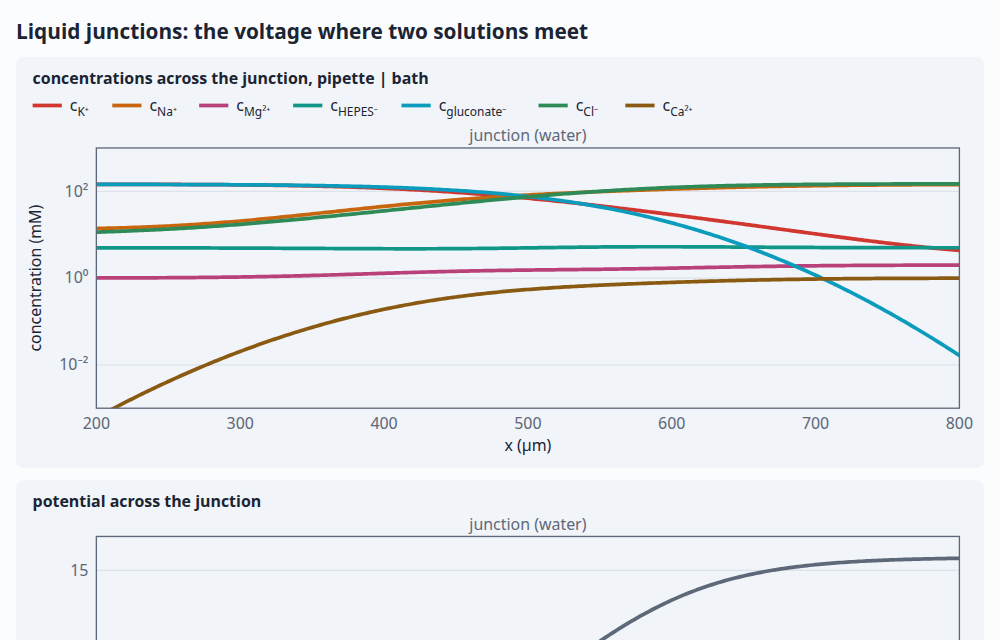
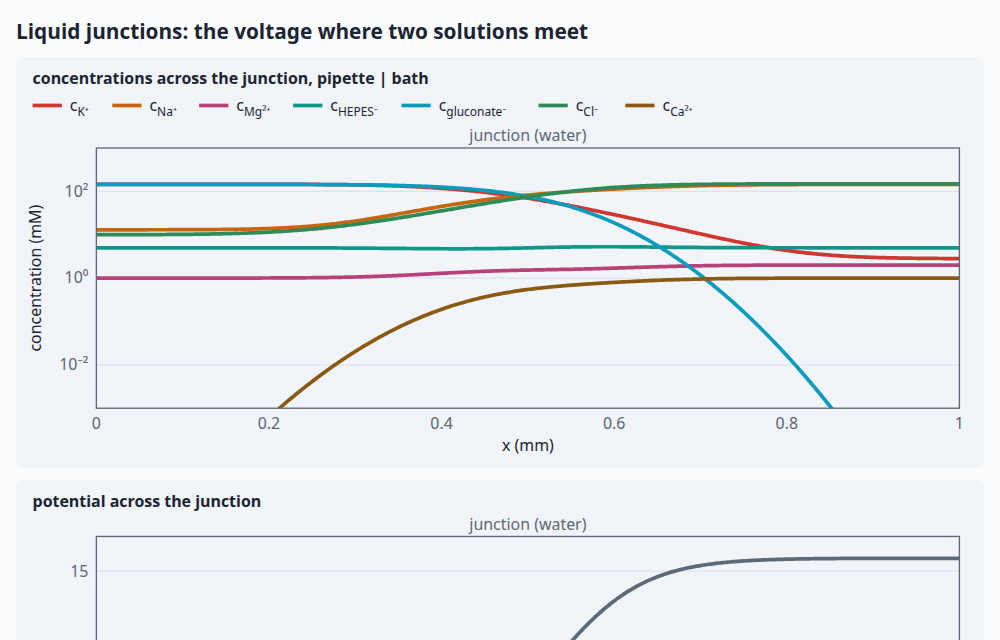
Liquid-junction demo: the whole zone in view, and long enough to become Planck's
The free junction's plots keep the full millimetre between the baths, so the spreading shows
(the owner found the zoom that kept the junction self-similar on screen more confusing than
telling). It now runs to 1000 s: past ~10 s its zone reaches the baths and the potential leaves
the free-diffusion value (15.74 mV), overshoots, and settles on Planck's (16.05). Linked from the
README's "is it for your problem?" table (electrochemistry, biophysics), and cross-linked with
the Daniell cell's salt bridge.

diff --git a/demos/junction.html b/demos/junction.html
@@ -16,7 +16,8 @@
     until the field they leave behind holds them back: a junction potential, often 10–20 mV, inside every such
     measurement. It's usually estimated with Henderson's formula; Planck's is exact for a junction held in a
     steady state; a junction growing freely from first contact is neither. Here it's simulated ion by ion, and
-    the formulas sit alongside it. (More about the model below.)</p>
+    the formulas sit alongside it. (More about the model below; the <a href="daniell.html">Daniell cell</a> has a
+    salt bridge at work, leaking ion by ion.)</p>
   <div class="controls">
     <label>junction <select id="preset">
       <option value="patch" selected>patch pipette: K-gluconate | bath</option>
@@ -54,8 +55,8 @@
     mixtures they differ by tenths of a millivolt to a millivolt: about what the corrections claim to be good
     to. For the patch pipette the published values are 15.6 mV (JPCalc, Henderson) and 16.05 mV (LJPcalc,
     Planck), for Figl et al.'s solutions at 20 °C; driftlet gets 15.61 and 16.05, and 15.74 for the free junction.
-    As a free junction's zone reaches whatever holds the two solutions (here the baths, 0.5 mm away), it turns
-    into Planck's.</p>
+    As a free junction's zone reaches whatever holds the two solutions (here the baths, 0.5 mm away, after
+    some tens of seconds), it turns into Planck's: watch the trace move from one to the other.</p>
   <p><b>Why patch-clampers correct for it.</b> The amplifier is zeroed with the pipette in the bath, where the
     junction between pipette solution and bath adds its potential, and zeroing absorbs it. Once the membrane is
     broken into, the pipette solution faces the cytoplasm, which it resembles, and that junction is gone; but
@@ -129,7 +130,7 @@ const library = (names, ions, epsr = 0) => ({
 
 // The free junction: 1 mm of neutral water, the two solutions meeting mid-way over 2 µm, held
 // beyond each end by a bath. Recorded as it grows.
-const L = 1e-3, END = 20; // s
+const L = 1e-3, END = 1000; // s
 function freeJunction({ T, left, right }) {
   const ions = ionsAt(T), names = [...new Set([...Object.keys(left), ...Object.keys(right)])];
   const cl = withTraces(left, names, ions), cr = withTraces(right, names, ions), lib = library(names, ions);
@@ -186,12 +187,12 @@ function start() {
   }
   requestAnimationFrame(frame);
 }
-// Played on a log clock: from a millisecond to 20 s in about ten seconds.
+// Played on a log clock: from a millisecond to 1000 s in about twelve seconds.
 function frame(now) {
   if (!run) return;
   run.wall += Math.min(0.1, (now - (run.last ?? now)) / 1000);
   run.last = now;
-  const target = Math.min(END, 1e-3 * 10 ** (run.wall * 0.43));
+  const target = Math.min(END, 1e-3 * 10 ** (run.wall * 0.5));
   const s = run.rec.advance(target, { budgetMs: 15, tol: 1e-4 });
   drawFree();
   if (run && s.converged && run.dev.solver.time < END) requestAnimationFrame(frame);
@@ -200,7 +201,7 @@ function drawFree() {
   const { set, rec, H, P } = run, sol = run.dev.solution(), t = sol.time, E = sol.phi.at(-1) - sol.phi[0];
   const pub = set.published.map(([w, v]) => `${w} ${v.toFixed(2)}`).join(', ');
   el('status').textContent = `t = ${t < 1 ? `${(1000 * t).toPrecision(2)} ms` : `${t.toPrecision(2)} s`} · junction potential ${mV(E)} · Henderson ${mV(H)}, Planck ${mV(P)} · published: ${pub} mV`;
-  const w = Math.max(3 * Math.sqrt(2e-9 * t), 10e-6), xlim = [L / 2 - w, L / 2 + w];
+  const xlim = [0, L]; // the whole zone between the baths, so the spreading shows
   const names = Object.keys(sol.c);
   profiles(el('conc'), sol, { species: names, title: `concentrations across the junction, ${set.names[0]} | ${set.names[1]}`, ylabel: 'concentration (mM)', log: true, range: [-3, 3], xlim });
   profiles(el('phi'), sol, {

diff --git a/demos/daniell.html b/demos/daniell.html
@@ -70,7 +70,8 @@
     bridge. Over hours the leaked KCl makes the solutions more conductive, so under a heavy load the voltage
     rises at first. Once the KCl has spread everywhere, what's left of the junction is Zn²⁺ and Cu²⁺ diffusing
     past each other in a KCl background: with nearly equal mobilities and that supporting electrolyte, its
-    potential stays tiny.</p>
+    potential stays tiny. (The <a href="junction.html">liquid-junction demo</a> takes junctions on their own:
+    Henderson's formula against Planck's and a junction growing from contact, and what a charged frit does.)</p>
   <p>Daniell's own separator was an unglazed earthenware pot: a porous wall that passes every ion, only slowly
     (here 5 mm of pores, where ions diffuse ten times slower than in free solution). There's no KCl to leak,
     and the junction between the two sulfate solutions is tiny. Either way, though, copper sulfate seeps

diff --git a/README.md b/README.md
@@ -32,12 +32,12 @@ The same equations go by different names in different fields. If your problem is
 |---|---|---|---|
 | Semiconductor devices | drift–diffusion, van Roosbroeck, quasi-Fermi levels, Scharfetter–Gummel; pn, Schottky, MOS, heterojunctions | [first example](#a-semiconductor-junction), [pn](https://markblundeberg.github.io/driftlet/demos/pn.html) and [MOS](https://markblundeberg.github.io/driftlet/demos/mos.html) demos, [`contacts`](test/contacts.test.js), [`metal`](test/metal.test.js) tests | exact built-in potential, Shockley J–V, depletion charge, MOS C–V |
 | Solar cells | photogeneration, radiative and SRH recombination | [solar](https://markblundeberg.github.io/driftlet/demos/solar.html) [organic (excitons)](https://markblundeberg.github.io/driftlet/demos/organic.html) and [perovskite (mobile ions)](https://markblundeberg.github.io/driftlet/demos/perovskite.html) demos, [`ionmonger`](test/ionmonger.test.js), [`reactions`](test/reactions.test.js) and [`generation`](test/generation.test.js) tests: generation is a reaction from a photon reservoir (uniform, or Beer–Lambert with `photogeneration()`), SRH as a rate law, in the bulk and at faces | `J_sc = qG(L_n + L_p + W)`; J_sc under Beer–Lambert against collection theory; Shockley J–V in the dark |
-| Electrochemistry | Nernst–Planck, concentration polarization, limiting current, Butler–Volmer, Warburg, cyclic voltammetry, salt bridges and liquid junctions | [second example](#an-electrochemical-cell), [cyclic voltammetry](https://markblundeberg.github.io/driftlet/demos/redox.html), [Daniell cell](https://markblundeberg.github.io/driftlet/demos/daniell.html), [saturation](https://markblundeberg.github.io/driftlet/demos/saturation.html) and [impedance](https://markblundeberg.github.io/driftlet/demos/impedance.html) demos, [`circuit`](test/circuit.test.js), [`kinetics`](test/kinetics.test.js), [`impedance`](test/impedance.test.js) tests | `i_lim·tanh(V/4V_T)`, Butler–Volmer closed form, finite-length Warburg |
+| Electrochemistry | Nernst–Planck, concentration polarization, limiting current, Butler–Volmer, Warburg, cyclic voltammetry, salt bridges and liquid junctions | [second example](#an-electrochemical-cell), [cyclic voltammetry](https://markblundeberg.github.io/driftlet/demos/redox.html), [Daniell cell](https://markblundeberg.github.io/driftlet/demos/daniell.html), [saturation](https://markblundeberg.github.io/driftlet/demos/saturation.html), [impedance](https://markblundeberg.github.io/driftlet/demos/impedance.html) and [liquid-junction](https://markblundeberg.github.io/driftlet/demos/junction.html) demos, [`circuit`](test/circuit.test.js), [`kinetics`](test/kinetics.test.js), [`impedance`](test/impedance.test.js), [`junction`](test/junction.test.js) tests | `i_lim·tanh(V/4V_T)`, Butler–Volmer closed form, finite-length Warburg; junction potentials against Henderson, Planck, JPCalc and LJPcalc |
 | Batteries, intercalation | OCV, insertion hosts, chemical diffusion | [insertion demo](https://markblundeberg.github.io/driftlet/demos/insertion.html), [`statistics`](test/statistics.test.js) test | composition vs OCV, π²D/4L² relaxation |
 | Double layers, colloids | Poisson–Boltzmann, Gouy–Chapman–Stern, Debye screening, crowding (Bikerman) | [double-layer demo](https://markblundeberg.github.io/driftlet/demos/double-layer.html), [`equilibrium`](test/equilibrium.test.js) test | Gouy–Chapman charge and profile, Kilic–Bazant–Ajdari |
 | Membranes, desalination | Donnan, ion exchange, liquid junctions, water dissociation | [membrane demo](https://markblundeberg.github.io/driftlet/demos/membrane.html), [`equilibrium`](test/equilibrium.test.js), [`neutral`](test/neutral.test.js) tests | Donnan partition, Planck EMF |
 | Solid-state ionics | mixed ionic–electronic conduction, defect chemistry, mobile ions | [`statistics`](test/statistics.test.js), [`reactions`](test/reactions.test.js) tests | mass action from standard potentials |
-| Biophysics, nanofluidics | charged nanochannels and pores, resting potentials, Goldman–Hodgkin–Katz, Nernst, Donnan, pumps and leaks | [charged-nanochannel](https://markblundeberg.github.io/driftlet/demos/channel.html) and [resting-potential](https://markblundeberg.github.io/driftlet/demos/cell.html) demos, [`pore`](test/pore.test.js) test; a membrane as a face: a capacitor with ion permeabilities, and the Na⁺/K⁺ pump as a reaction on it ([`membrane`](test/membrane.test.js) test) | GHK potential and current–voltage curve; a resolved lipid layer; Mullins–Noda; the pump's static head; Donnan |
+| Biophysics, nanofluidics | charged nanochannels and pores, resting potentials, Goldman–Hodgkin–Katz, Nernst, Donnan, pumps and leaks | [charged-nanochannel](https://markblundeberg.github.io/driftlet/demos/channel.html), [resting-potential](https://markblundeberg.github.io/driftlet/demos/cell.html) and [liquid-junction](https://markblundeberg.github.io/driftlet/demos/junction.html) (a patch pipette's) demos, [`pore`](test/pore.test.js) test; a membrane as a face: a capacitor with ion permeabilities, and the Na⁺/K⁺ pump as a reaction on it ([`membrane`](test/membrane.test.js) test) | GHK potential and current–voltage curve; a resolved lipid layer; Mullins–Noda; the pump's static head; Donnan |
 
 The tests are worked setups, each with its analytic check, so they double as recipes. The
 [validation table](#validation) lists them all.
